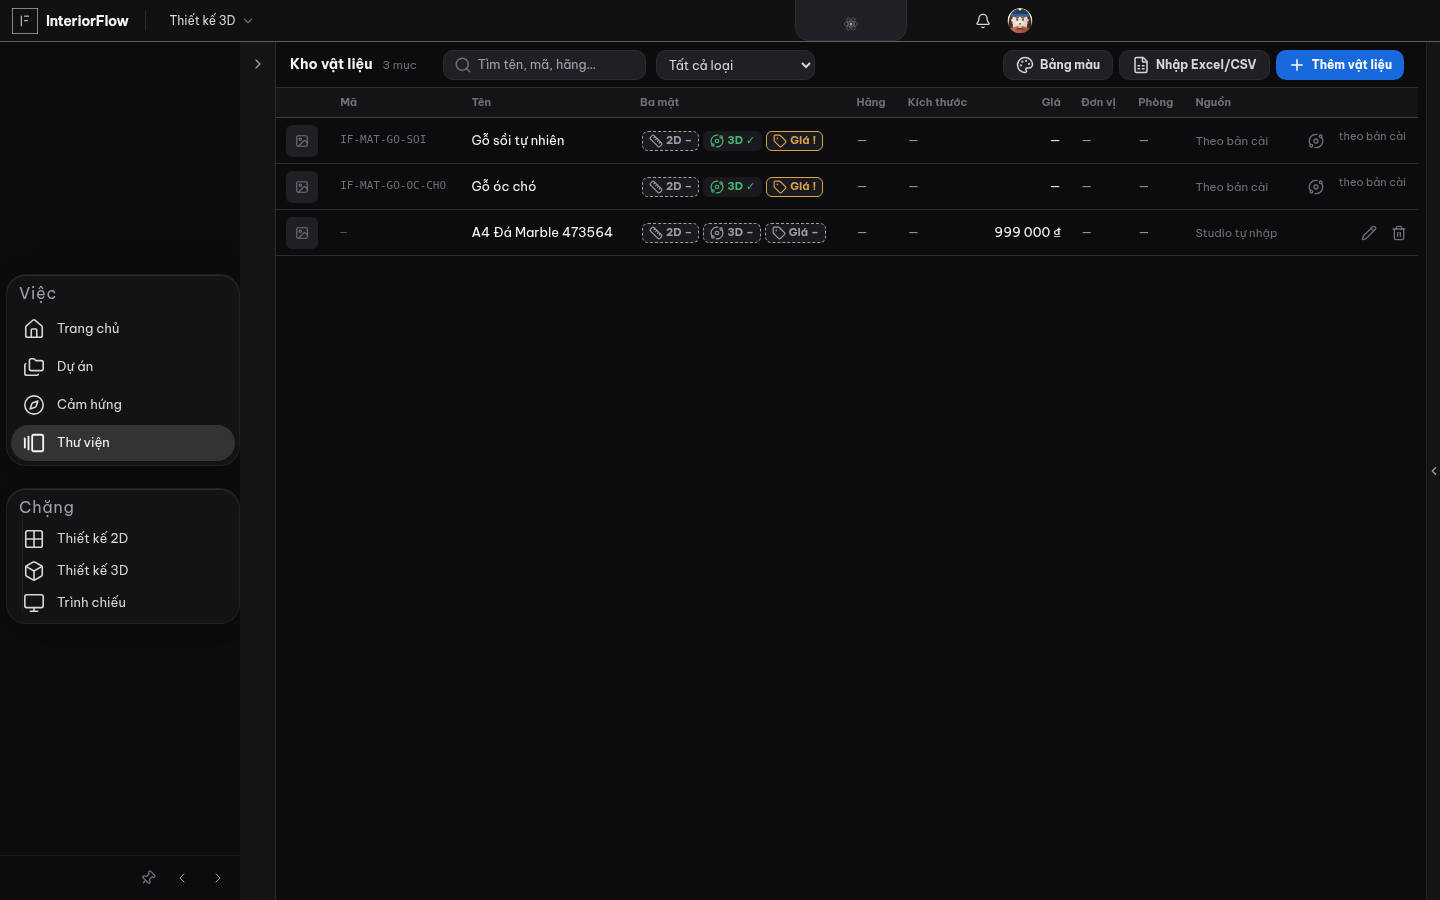
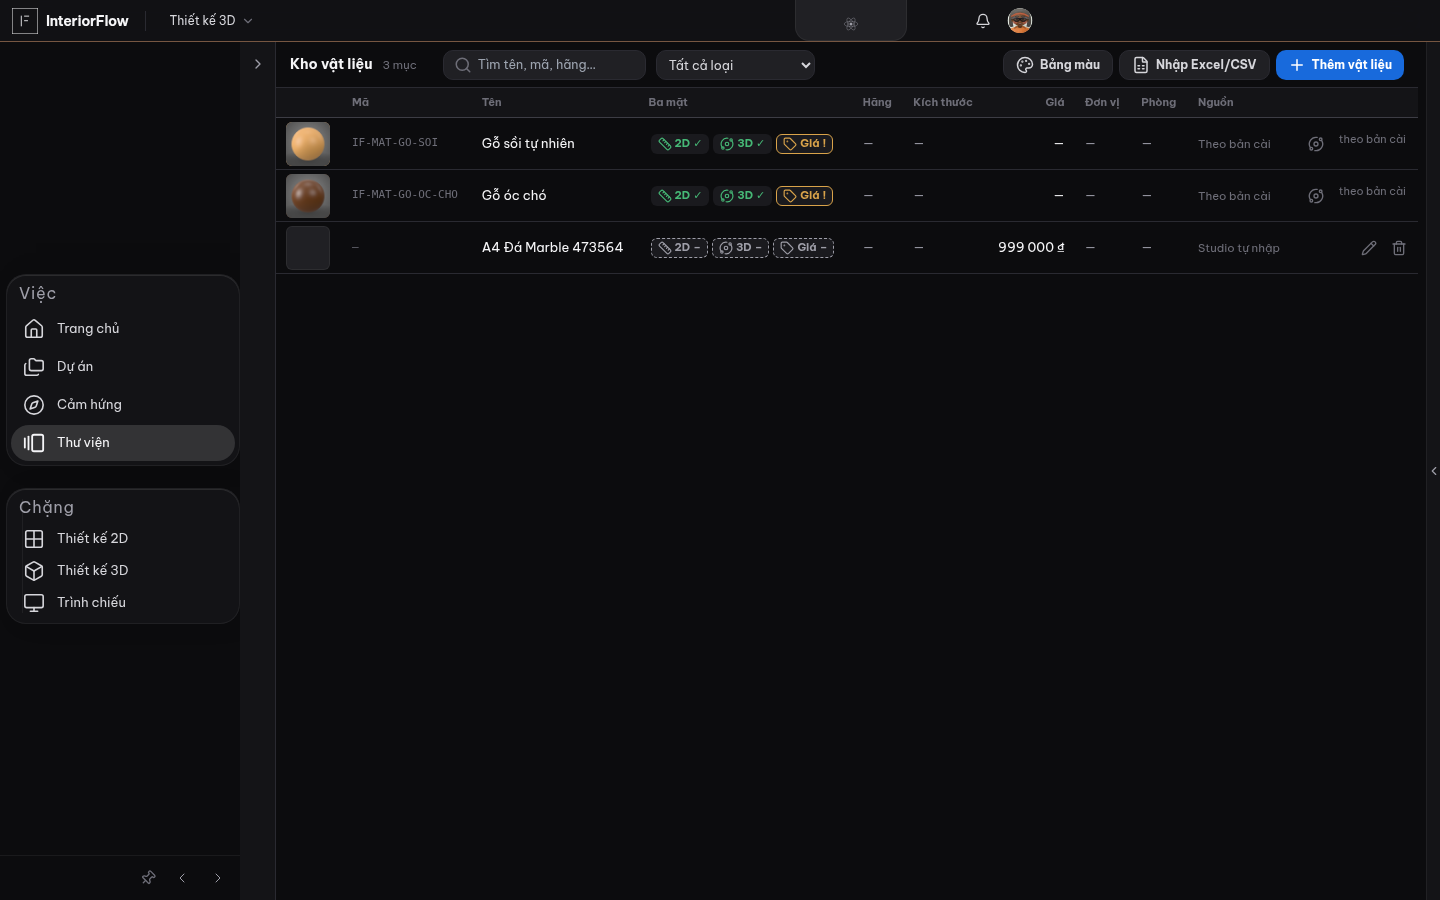
chore: đóng hai cổng đỏ chặn `npm test` + cập nhật Ship Board sau V1–V4
HAI CỔNG ĐỎ, cả hai KHÔNG do lượt vật liệu gây ra nhưng đang chặn `npm test`:

① `soi:thu-muc` — `docs/delivery/anh-audit-a4` (60 ảnh, 6,1 MB) mồ côi: không
   tracked, không ignored, chưa ai quyết. Cổng nói thẳng hậu quả của việc không
   quyết: "lần dọn sau nó biến mất và không ai biết đã mất gì".
   ⇒ GIỮ. Đây là bằng chứng của một audit ĐÃ XONG (`AUDIT-THAO-TAC-A4.md` trích
   nó), khác hẳn việc dở của một làn đang chạy — thứ tôi từ chối commit hộ vài
   giờ trước. Bằng chứng đã đóng thì giữ; việc đang dở thì để yên.

② `soi:vang-mat` 8/7 — một khẳng định của TÔI viết hôm nay không kèm lệnh chạy
   lại (`IF-TRI-THUC-NGHE.md` câu "1:47 không tồn tại trong nghề").
   Lần vá đầu TRƯỢT: tôi để lệnh trong khối trích dẫn cách 3 dòng, mà cổng chỉ
   soi cửa sổ 2 dòng (`soi-vang-mat.mjs:48`). Đọc mã cổng rồi mới sửa đúng chỗ —
   không nới cửa sổ, không nới trần. Nay 7/7.
   Và câu vá vào nói thẳng grep là cách YẾU cho ca này: tỷ lệ lẻ chỉ lộ ở khung
   tên bản in, cách chắc là mở tệp xuất ra soi.

SHIP BOARD cập nhật theo V1–V4, có nguồn, và CỐ Ý KHÔNG nâng Vật liệu lên PASS:
· mục "tốt hơn" mới lên đầu: mở Kho vật liệu là NHÌN THẤY vật liệu
· ảnh /materials chụp lại — 2 mẫu vật thật (trước: 0), ghi rõ trong xuất xứ là
  ảnh chụp lại, 20 ảnh còn lại vẫn là lô 18:36
· bề mặt VẬT LIỆU: FAIL → PARTIAL, kèm hai điểm còn trượt do chính làn build tự
  khai — nấc SCAN 44px đọc ra màu và độ bóng nhưng CHƯA đọc ra vân (quả cầu PBR
[…]

diff --git a/docs/ship/IF-SHIP-BOARD.html b/docs/ship/IF-SHIP-BOARD.html
@@ -69,6 +69,8 @@ Mọi trạng thái đọc từ sổ có sẵn — bảng này không tự chấ
 
 <h2>Người dùng nay làm được gì tốt hơn</h2>
 <ul class="tot"><li>
+  <div class="chu">Mở Kho vật liệu là NHÌN THẤY vật liệu — phân biệt gỗ sồi với gỗ óc chó bằng mắt.</div>
+  <div class="them">05/09 · G6 — Trước đó ô mẫu 32×32 chứa biểu tượng ảnh-hỏng 14 px: 3/3 ô hỏng, 0 pixel vật liệu. Nay 44×44 mẫu vật vẽ ra, 0/202 ô hỏng dưới tải.</div></li><li>
   <div class="chu">Đăng nhập tài khoản khác trên cùng một máy KHÔNG còn mở được thư mục dự án của người trước.</div>
   <div class="them">05/09 · G1 — Trước đó lời cấp quyền thư mục nằm dưới một khoá cố định, ai đăng nhập sau cũng dùng lại được.</div></li><li>
   <div class="chu">Món cấu kiện thả từ Thư viện xuống bản vẽ nay HIỆN RA trong bảng khối lượng.</div>
@@ -145,9 +147,9 @@ Mọi trạng thái đọc từ sổ có sẵn — bảng này không tự chấ
   </article><article class="man">
     <div class="khung"><img loading="lazy" src="anh/09-vat-lieu.png" alt="VẬT LIỆU — ảnh app thật">
        <span class="xx">REAL APP · 2026-09-05 18:36 UTC</span></div>
-    <h3>VẬT LIỆU <span class="tt" style="--c:#c04a4a">FAIL</span></h3>
-    <p class="do">/materials — 1672 ký tự · 57 nút · 62 hình</p>
-    <p class="chan">⛔ F1 kho vật liệu có 0 pixel vật liệu (img=0 · canvas=0, ô xem trước 32×32 chứa SVG biểu tượng ảnh-hỏng) · F2 3/3 ô là biểu tượng hỏng · F5 mặt 2D CHẾT trên 100% vật liệu ship sẵn ('2D –' cả…</p>
+    <h3>VẬT LIỆU <span class="tt" style="--c:#c08a2e">PARTIAL</span></h3>
+    <p class="do">/materials — 1774 ký tự · null nút · 2 hình</p>
+    <p class="chan">⛔ V1–V4 xong (2/2 vật liệu có mã hiện mẫu vật thật, ba mặt 2D✓3D✓). CÒN: ở nấc SCAN 44px đọc ra MÀU và ĐỘ BÓNG, chưa đọc ra VÂN — quả cầu PBR phủ kín lớp vân; và chưa đăng nhập thì /materials…</p>
   </article><article class="man">
     <div class="khung"><img loading="lazy" src="anh/11-thu-vien.png" alt="THƯ VIỆN — ảnh app thật">
        <span class="xx">REAL APP · 2026-09-05 18:36 UTC</span></div>

diff --git a/docs/control/IF-TRI-THUC-NGHE.md b/docs/control/IF-TRI-THUC-NGHE.md
@@ -77,8 +77,11 @@ Audit mà không biết đầu ra nghề gồm những gì thì không biết ap
 | BOQ / dự toán | khối lượng theo đơn vị đo được + hao hụt | — |
 
 **Tỷ lệ chuẩn (ISO 5455):** 1:1 · 1:2 · 1:5 · 1:10 · 1:20 · 1:50 · 1:100 · 1:200 · 1:500.
-`1:47` **không tồn tại trong nghề** — thấy nó là thấy engine tự tính tỷ lệ cho vừa khung giấy,
-lỗi đã bắt được ngày 11/08. (1:25 · 1:30 dùng thực tế ngoài ISO ⇒ được, nhưng phải cố ý.)
+`1:47` **không tồn tại trong nghề** — thấy nó là thấy engine tự tính tỷ lệ cho vừa khung giấy.
+Kiểm: `grep -rn "1:47\|scaleDenom\|tyLe" lib/cad/export-checks.ts lib/present-editor/` — nhưng
+grep là cách YẾU; tỷ lệ lẻ chỉ lộ ở khung tên bản in, nên cách chắc là **mở tệp xuất ra soi**
+theo `docs/CHUAN-DAU-RA-NGHE.md`. Lỗi bắt được 11/08. (1:25 · 1:30 dùng thật ngoài ISO ⇒ được,
+nhưng phải cố ý.)
 
 **Khổ giấy (ISO 216):** hồ sơ thi công A1 · A2 · A3; thuyết trình khách A3. In **≥300dpi**.
 
